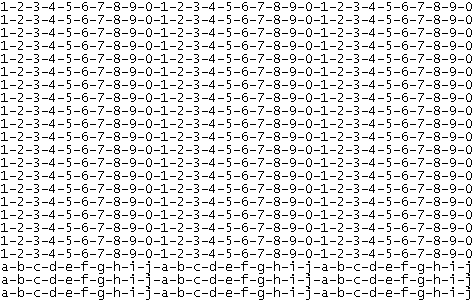
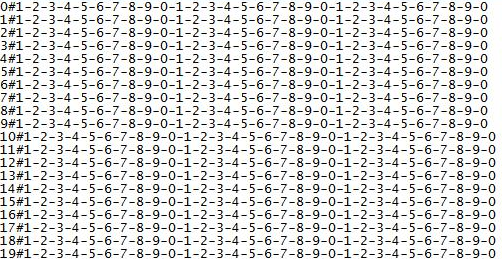
modify example

diff --git a/src/core/dev_stuff/suites/windows/clipboard_test/case1/clipboard_test.js b/src/core/dev_stuff/suites/windows/clipboard_test/case1/clipboard_test.js
@@ -32,12 +32,12 @@ try {
             env.paste(j + "#1-2-3-4-5-6-7-8-9-0-1-2-3-4-5-6-7-8-9-0-1-2-3-4-5-6-7-8-9-0");
             env.type(Key.ENTER);
         }
-        env.sleep(2);
-        for (k = 0; k < 3; k++) {
-            env.type(k + "#a-b-c-d-e-f-g-h-i-j-a-b-c-d-e-f-g-h-i-j-a-b-c-d-e-f-g-h-i-j");
-            env.type(Key.ENTER);
-        }
-        env.sleep(2);
+        //env.sleep(2);
+        //for (k = 0; k < 3; k++) {
+        //    env.type(k + "#a-b-c-d-e-f-g-h-i-j-a-b-c-d-e-f-g-h-i-j-a-b-c-d-e-f-g-h-i-j");
+        //    env.type(Key.ENTER);
+        //}
+        //env.sleep(2);
         screen.waitForImage("eval", 1).highlight();
         env.type("a", Key.CTRL);
         env.type(Key.DELETE)
